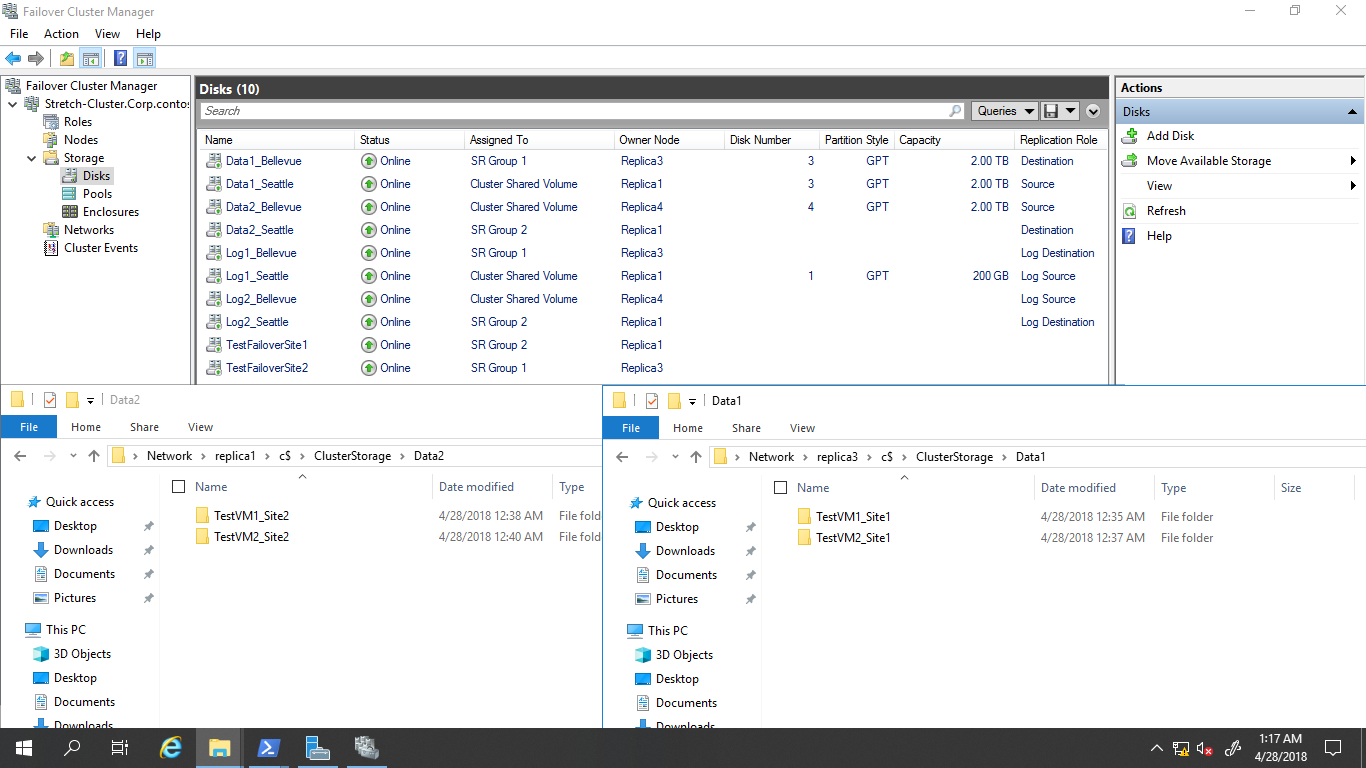
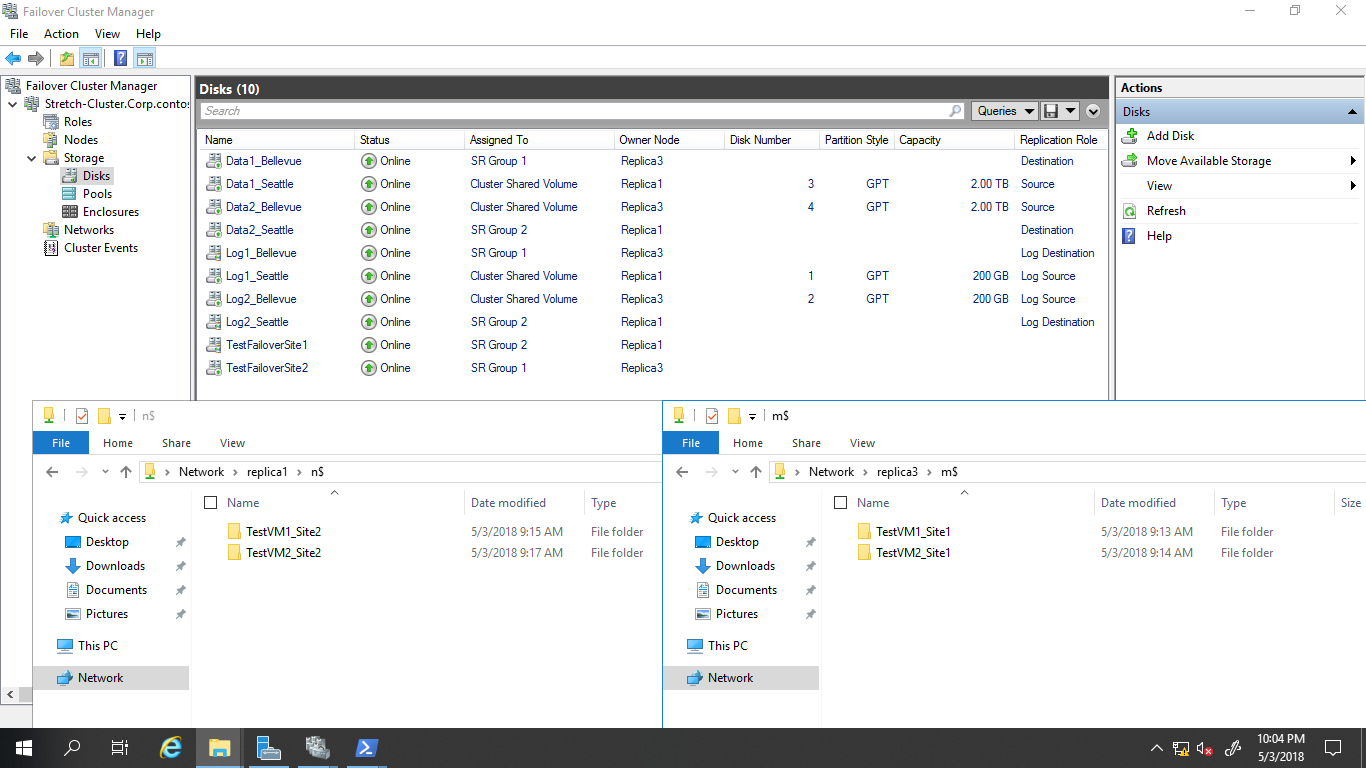
fix
Former-commit-id: 77fe82d7a8084b04f874d9393c867f5594d05537

diff --git a/Scenarios/StorageReplica/Stretch_Cluster/readme.md b/Scenarios/StorageReplica/Stretch_Cluster/readme.md
@@ -171,16 +171,15 @@ function Rename-ClusterDisk ($ClusterName,$FileSystemLabel,$ClusterNodeName,$New
 #rename TestFailoverSite1 and TestFailoverSite2 disks
 Rename-ClusterDisk -ClusterName Stretch-Cluster -FileSystemLabel TestFailoverSite1 -clusternodename Replica1 -NewName TestFailoverSite1
 Rename-ClusterDisk -ClusterName Stretch-Cluster -FileSystemLabel TestFailoverSite2 -clusternodename Replica3 -NewName TestFailoverSite2
-
+ 
 ````
 
 ![](/Scenarios/StorageReplica/Stretch_Cluster/screenshots/FailoverDisksRenamed.png)
 
-
 Get SR Partnerships
 
 ````PowerShell
-Get-SRGroup -CimSession stretch-cluster | select Name -ExpandProperty Replicas | ft Name, DataVolume,ReplicationMode,ReplicationStatus
+Get-SRGroup -CimSession stretch-cluster | select Name -ExpandProperty Replicas | ft Name, DataVolume,ReplicationMode,ReplicationStatus,IsMounted
  
 ````
 
@@ -189,22 +188,39 @@ Get-SRGroup -CimSession stretch-cluster | select Name -ExpandProperty Replicas |
 Mount
 
 ````PowerShell
-Function Mount-SRDestinationClusterDisk ($ClusterName,$ClusterNodeName,$RGName,$ClusterDiskName){
+Function Mount-SRDestinationClusterDisk ($ClusterName,$ClusterNodeName,$RGName,$ClusterDiskName,$DriveLetter){
     #move available disks to $ClusterNodeName
     if ((Get-ClusterGroup -Cluster $ClusterName -Name "Available Storage").OwnerNode -ne $ClusterNodeName){
         Move-ClusterGroup -Cluster $ClusterName -Name "Available Storage" -Node $ClusterNodeName
     }
+
+    #move clustergroup to $clusterNodeName be able to see mounted disk online on that node
+    $PartitionID=(Get-SRGroup -CimSession $ClusterName | where Name -eq $RGName).Replicas.PartitionId
+    $Partition=get-disk -CimSession $ClusterNodeName | Get-Partition | where GUID -eq "{$partitionID}"
+    $DiskGuid=$Partition.DiskID.Replace("\\?\Disk","")
+    $ClusterResourceName=Get-ClusterResource -Cluster $clustername | where resourcetype -eq "Physical Disk" | Get-ClusterParameter | where value -eq $DiskGuid
+    $ClusterResourceName.ClusterObject.OwnerGroup | Move-ClusterGroup -Node $ClusterNodeName
+
     #grab disk with specified name
     $DiskIDGuid = Get-ClusterResource -Cluster $ClusterName -Name $ClusterDiskName | Get-ClusterParameter DiskIdGuid
     #Find path
     $path=(Get-Disk -CimSession $ClusterNodeName | where Guid -eq $DiskIDGuid.Value | Get-Partition | Get-Volume).path
     #MountSRDestination
     Mount-SRDestination -ComputerName $ClusterNodeName -Name $RGName -TemporaryPath $path -Confirm:0
+    #assign letter to SRDestination path
+    $DataVolumePath=(Get-SRGroup -CimSession $ClusterName | where Name -eq $RGName).Replicas.DataVolume
+    $partition=get-volume -CimSession $clusterNodeName | where path -eq $DataVolumePath | get-partition
+    if ($partition.Driveletter -and $partition.driveletter -ne $driveletter){
+        $partition | Set-Partition -NewDriveLetter $DriveLetter
+    }elseif (-not $partition.driveletter){
+        $partition | Add-PartitionAccessPath -AccessPath "$($DriveLetter):\"
+    }
 
 }
 
-Mount-SRDestinationClusterDisk -ClusterName stretch-cluster -ClusterNodeName replica3 -RGName Data1Destination -ClusterDiskName TestFailoverSite2
-Mount-SRDestinationClusterDisk -ClusterName stretch-cluster -ClusterNodeName replica1 -RGName Data2Destination -ClusterDiskName TestFailoverSite1
+#mount cluster disk. Just make sure DriveLetter is not used. No error will be thrown. Needs to be different for each volume mounted.
+Mount-SRDestinationClusterDisk -ClusterName stretch-cluster -ClusterNodeName replica3 -RGName Data1Destination -ClusterDiskName TestFailoverSite2 -DriveLetter M
+Mount-SRDestinationClusterDisk -ClusterName stretch-cluster -ClusterNodeName replica1 -RGName Data2Destination -ClusterDiskName TestFailoverSite1 -DriveLetter N
  
 ````
 

diff --git a/Scenarios/S2D Tools/Get-DiskPerfReport/readme.md b/Scenarios/S2D Tools/Get-DiskPerfReport/readme.md
@@ -1,5 +1,7 @@
 Following function is just and example to work with 505 events generated by storport. It will query all disks on local or remote system, and return all latency information together with disks model, location... It does not show progress, therefore you need to be bit patient.
 
+Inspired by [this blogpost](https://blogs.technet.microsoft.com/ashleymcglone/2013/08/28/powershell-get-winevent-xml-madness-getting-details-from-event-logs/)
+
 **Example use:**
 
 Get-DiskPerfReport | Format-Table -Autosize
